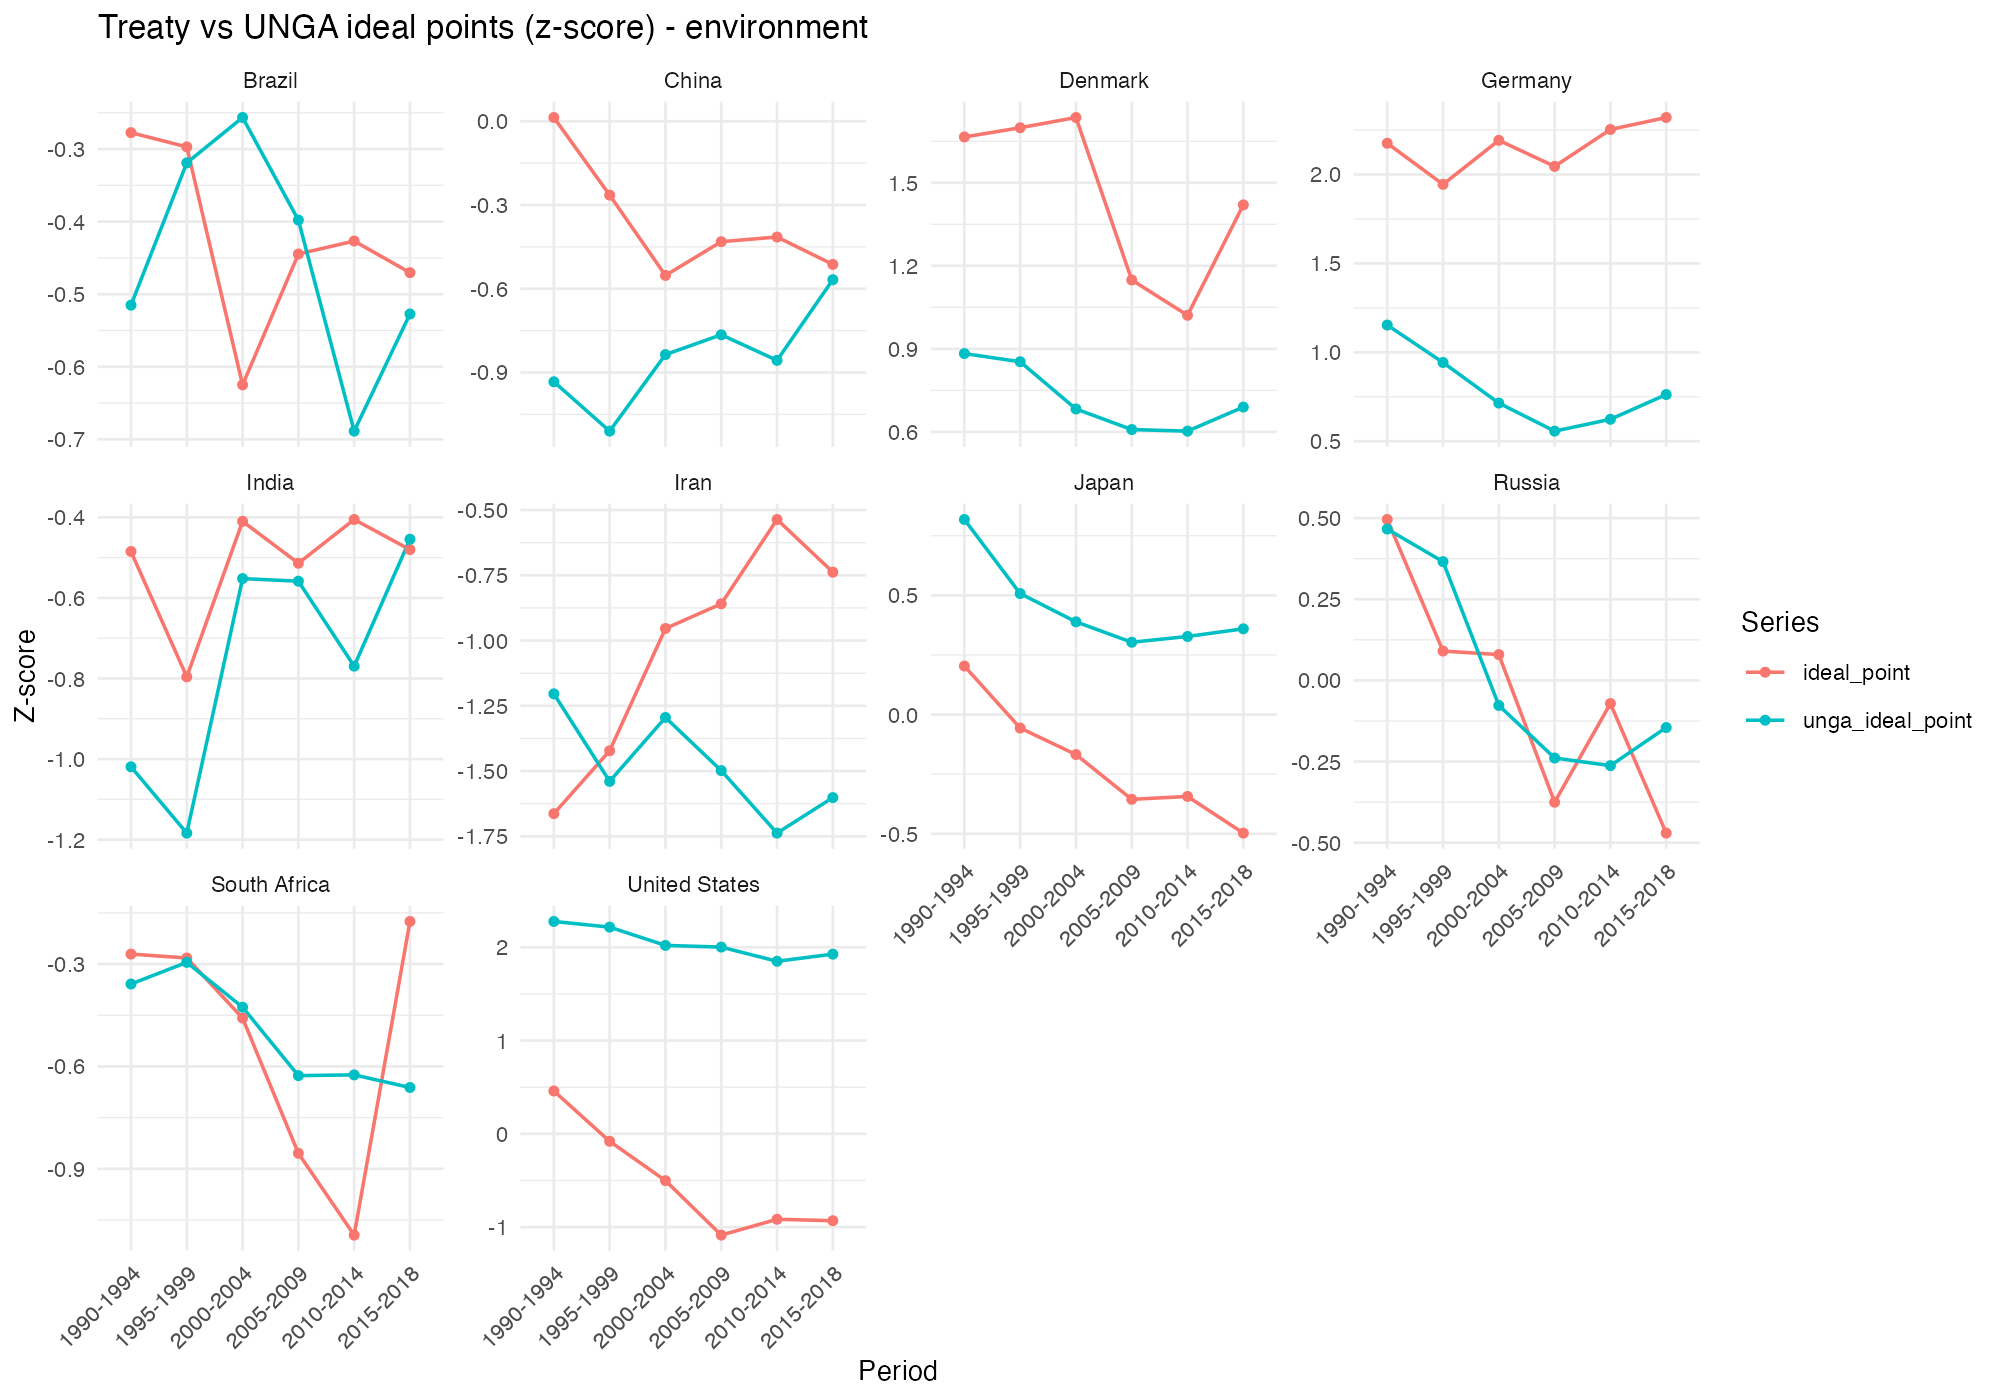
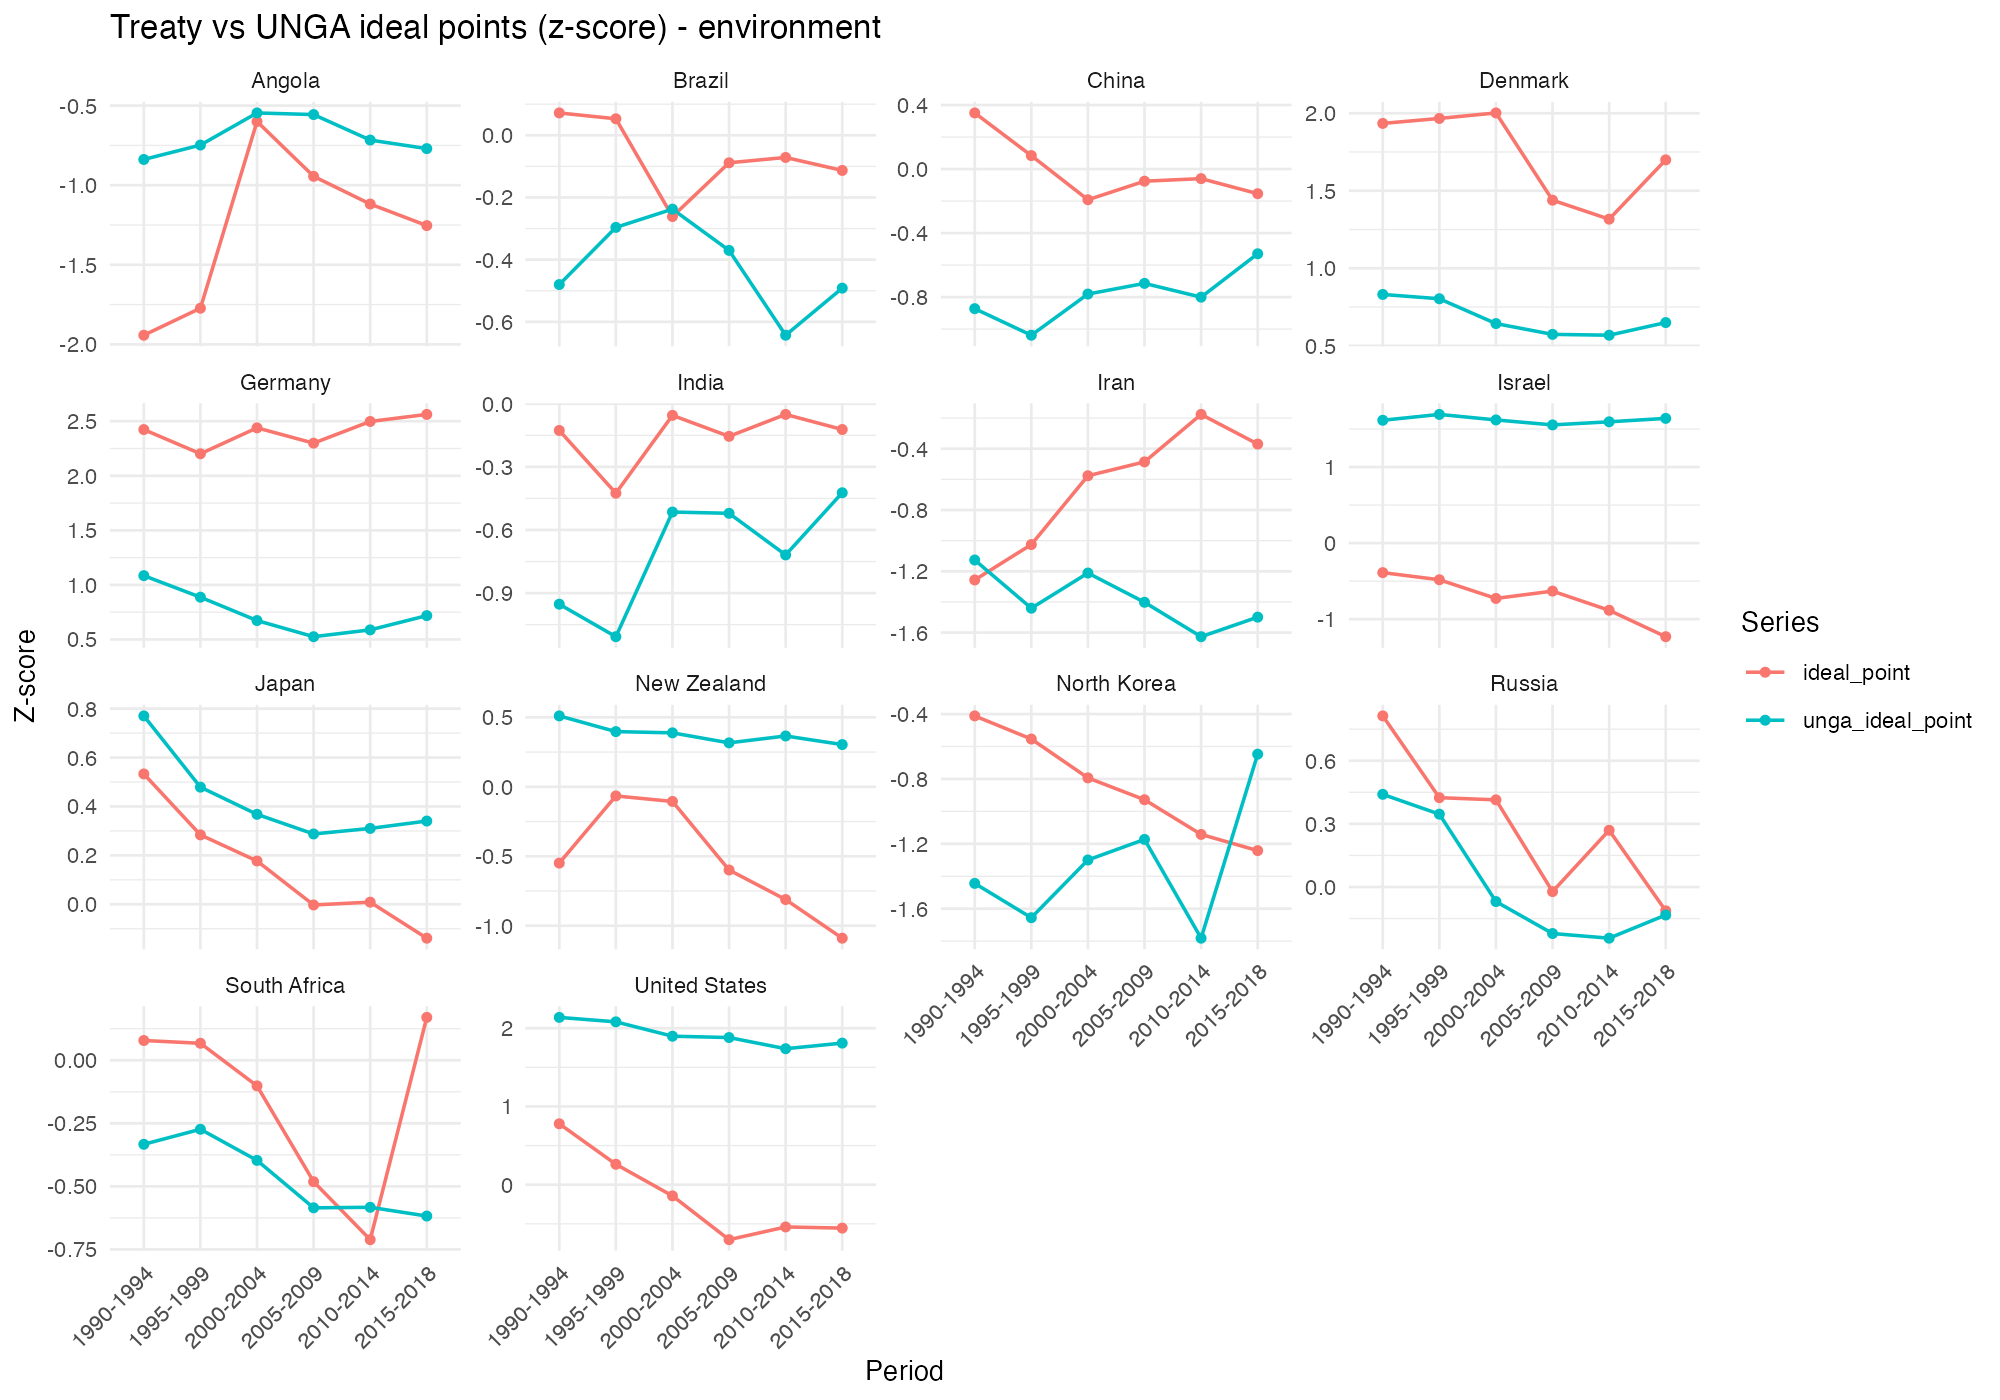
Complete new sources plan: validation (Phase 4) and documentation (Phase 5)
Add 3 new issue areas (human_rights, arms_control, intellectual_property)
to validation and summary scripts, update data dictionary, and finalize
all documentation for the new sources plan.

diff --git a/docs/data_dictionary.md b/docs/data_dictionary.md
@@ -10,8 +10,8 @@ Unit of analysis:
 - Country-year-event (one row per country, year, and event/treaty/organization observation).
 
 Columns:
-- `source`: Data source (DESTA, ATOP, IEADB, WTO RTA, UNCTAD IIA).
-- `issue_area`: Issue area label (trade, investment, security, environment).
+- `source`: Data source (DESTA, ATOP, IEADB, WTO RTA, UNCTAD IIA, UN HR Treaties, Arms Control, WIPO Treaties).
+- `issue_area`: Issue area label (trade, investment, security, environment, human_rights, arms_control, intellectual_property).
 - `iso3`: ISO3 country code (countries only; REIOs excluded in processed data).
 - `country_name`: Country name (best-effort mapping from ISO3 or source names).
 - `year`: Event year (integer), restricted to >= 1990.
@@ -33,3 +33,55 @@ Notes:
 - DESTA does not provide explicit ratification dates; entry-into-force is used as the closest activation marker.
 - UNCTAD IIA does not provide explicit ratification dates; entry-into-force is used as the closest activation marker.
 - The deduped files remove overlap between DESTA and WTO RTA by matching treaty names and dropping DESTA rows for matched treaties (see `data/processed/trade_dedup_matches.csv` and `data/processed/trade_dedup_summary.csv`).
+
+---
+
+# Raw data: New issue-area sources (acquired 2026-02-03)
+
+## `data/raw/un_hr_treaties/un_hr_ratifications.csv`
+- Unit: country-treaty observation (one row per country per HR instrument)
+- Columns: `treaty_id`, `treaty_name`, `country`, `signature_date`, `action_type`, `action_date`
+- Coverage: 18 instruments (9 core UN HR treaties + optional protocols), ~200 countries
+- Source: treaties.un.org Chapter IV
+
+## `data/raw/arms_control/arms_control_ratifications.csv`
+- Unit: country-treaty observation
+- Columns: `treaty_id`, `treaty_name`, `country`, `signature_date`, `action_type`, `action_date`
+- Coverage: 12 instruments from Chapter XXVI, ~197 countries
+- Source: treaties.un.org Chapter XXVI
+
+## `data/raw/wipo_treaties/wipo_ratifications.csv`
+- Unit: country-treaty observation
+- Columns: `treaty_id`, `treaty_name`, `country`, `signature_date`, `instrument_type`, `action_date`, `entry_into_force_date`
+- Coverage: 26 WIPO-administered treaties, ~199 countries
+- Source: www.wipo.int/wipolex
+
+---
+
+# Processed data: Flow matrices (new issue areas)
+
+## `data/processed/human_rights_flow_matrix.rds`
+- Dimensions: 197 countries x 35 phantom items (18 treaties x ~6 periods, minus closed items)
+- Values: -1 (non-participant), 0 (not yet open), +1 (ratified/acceded)
+
+## `data/processed/arms_control_flow_matrix.rds`
+- Dimensions: 195 countries x 26 phantom items
+- Values: -1 (non-participant), 0 (not yet open), +1 (ratified/acceded)
+
+## `data/processed/intellectual_property_flow_matrix.rds`
+- Dimensions: 179 countries x 26 phantom items
+- Values: -1 (non-participant), 0 (not yet open), +1 (ratified/acceded)
+
+---
+
+# Estimates (new issue areas)
+
+## `outputs/estimates/{human_rights,arms_control,intellectual_property}_ideal_points.csv`
+- Unit: country-period
+- Columns: `country_iso3`, `period`, `ideal_point`
+- Periods: 1990-1994, 1995-1999, 2000-2004, 2005-2009, 2010-2014, 2015-2018
+
+## `outputs/estimates/{human_rights,arms_control,intellectual_property}_item_params.csv`
+- Unit: phantom item
+- Columns: `item`, `alpha`, `beta`
+- alpha = discrimination parameter, beta = difficulty parameter

diff --git a/HANDOFF.md b/HANDOFF.md
@@ -420,8 +420,46 @@ Date: 2026-02-01
 - Outputs: `outputs/estimates/{area}_ideal_points.{rds,csv}` and `_item_params.csv`
 - Log: `logs/phase3_estimate_new_sources_20260203T181602.log`
 
+## Phase 18 — New Sources: Phase 4 Validation (Completed)
+- Date: 2026-02-03
+- Status: SUCCESS (all 6 areas validated)
+- Script: `scripts/R/04_validate.R`
+- Changes:
+  - Expanded `areas` from 3 to 6 (added human_rights, arms_control, intellectual_property)
+  - Added anchor countries to `selected_countries`: New Zealand, North Korea, Israel, Angola
+- Overall UNGA correlations:
+  - investment: r = -0.078 (n=1013)
+  - security: r = 0.205 (n=969)
+  - environment: r = 0.502 (n=1124)
+  - human_rights: r = -0.185 (n=1130)
+  - arms_control: r = -0.480 (n=1118)
+  - intellectual_property: r = +0.479 (n=1041)
+- Per-period correlations: stable across all 6 periods for all areas
+- Outputs:
+  - `outputs/validation/unga_correlations_overall.csv`
+  - `outputs/validation/unga_correlations_by_period_{area}.csv`
+  - `outputs/validation/figures/fig_timeseries_unga_{area}.png`
+- Log: `logs/phase4_validate_new_sources_20260203T221400.log`
+- Notes:
+  - HR and AC correlations are negative due to sign conventions in dynIRT estimation
+    (positive = low ratification for HR; positive = pro-disarmament for AC)
+  - IP correlation (+0.48) stronger than expected; WIPO engagement tracks multilateral engagement
+  - Arms control correlation strengthens from -0.27 (1990-1994) to ~-0.53 (post-1995),
+    likely due to sparse pre-CWC treaty data in early period
+
+## Phase 19 — New Sources: Phase 5 Documentation (Completed)
+- Date: 2026-02-03
+- Status: SUCCESS (new sources plan fully implemented)
+- Changes:
+  - `scripts/R/04_validation_summary.R`: updated `areas` from 3 to 6; re-ran successfully
+  - `docs/data_dictionary.md`: added 3 new sources, 3 new issue areas, raw data schemas, flow matrix docs, estimate docs
+  - `docs/source_registry.md`: already up to date (done in Phase 14)
+- Log: `logs/phase5_documentation_20260203T221500.log`
+- **New sources plan (`docs/new_sources_plan.md`) is now FULLY COMPLETE** (Phases 0-5 all done)
+
 ## Next Steps
-- **Phase 4**: Validation against UNGA ideal points
+- New sources plan complete; no remaining phases
+- See Open Questions below for potential follow-up work
 
 ## Open Questions
 - Should we probe SAU 1991+ (or skip SAU for now)?

diff --git a/RULES.md b/RULES.md
@@ -27,3 +27,4 @@ Here I present rules that you must follow to produce great outputs to me, things
 22. Se alguma extração via rede falhar (DNS, timeout, HTTP 403) mesmo com permissionamento escalado : opção "a" é tentar novamente após 30 segundos (pode ser falha temporária); opção "b", se falha persistir, tente uma fonte alternativa. Grave em log as falhas.
 23. When any step fails (script error, download failure, package installation error, etc.), do NOT simply retry the same command or give up. Run diagnostic commands **before** retrying and **act** on the diagnosis.  If all else fails, log the exact error message and diagnostic results to `logs/` and report to user.
 24. Sempre que um plano tiver várias fases, escreva o plano completo em um arquivo (ex: `docs/`) antes de começar a execução.
+25. Always ask if you can proceed before stating a new phase. Wait untill I authorize for you to start a new phase.
